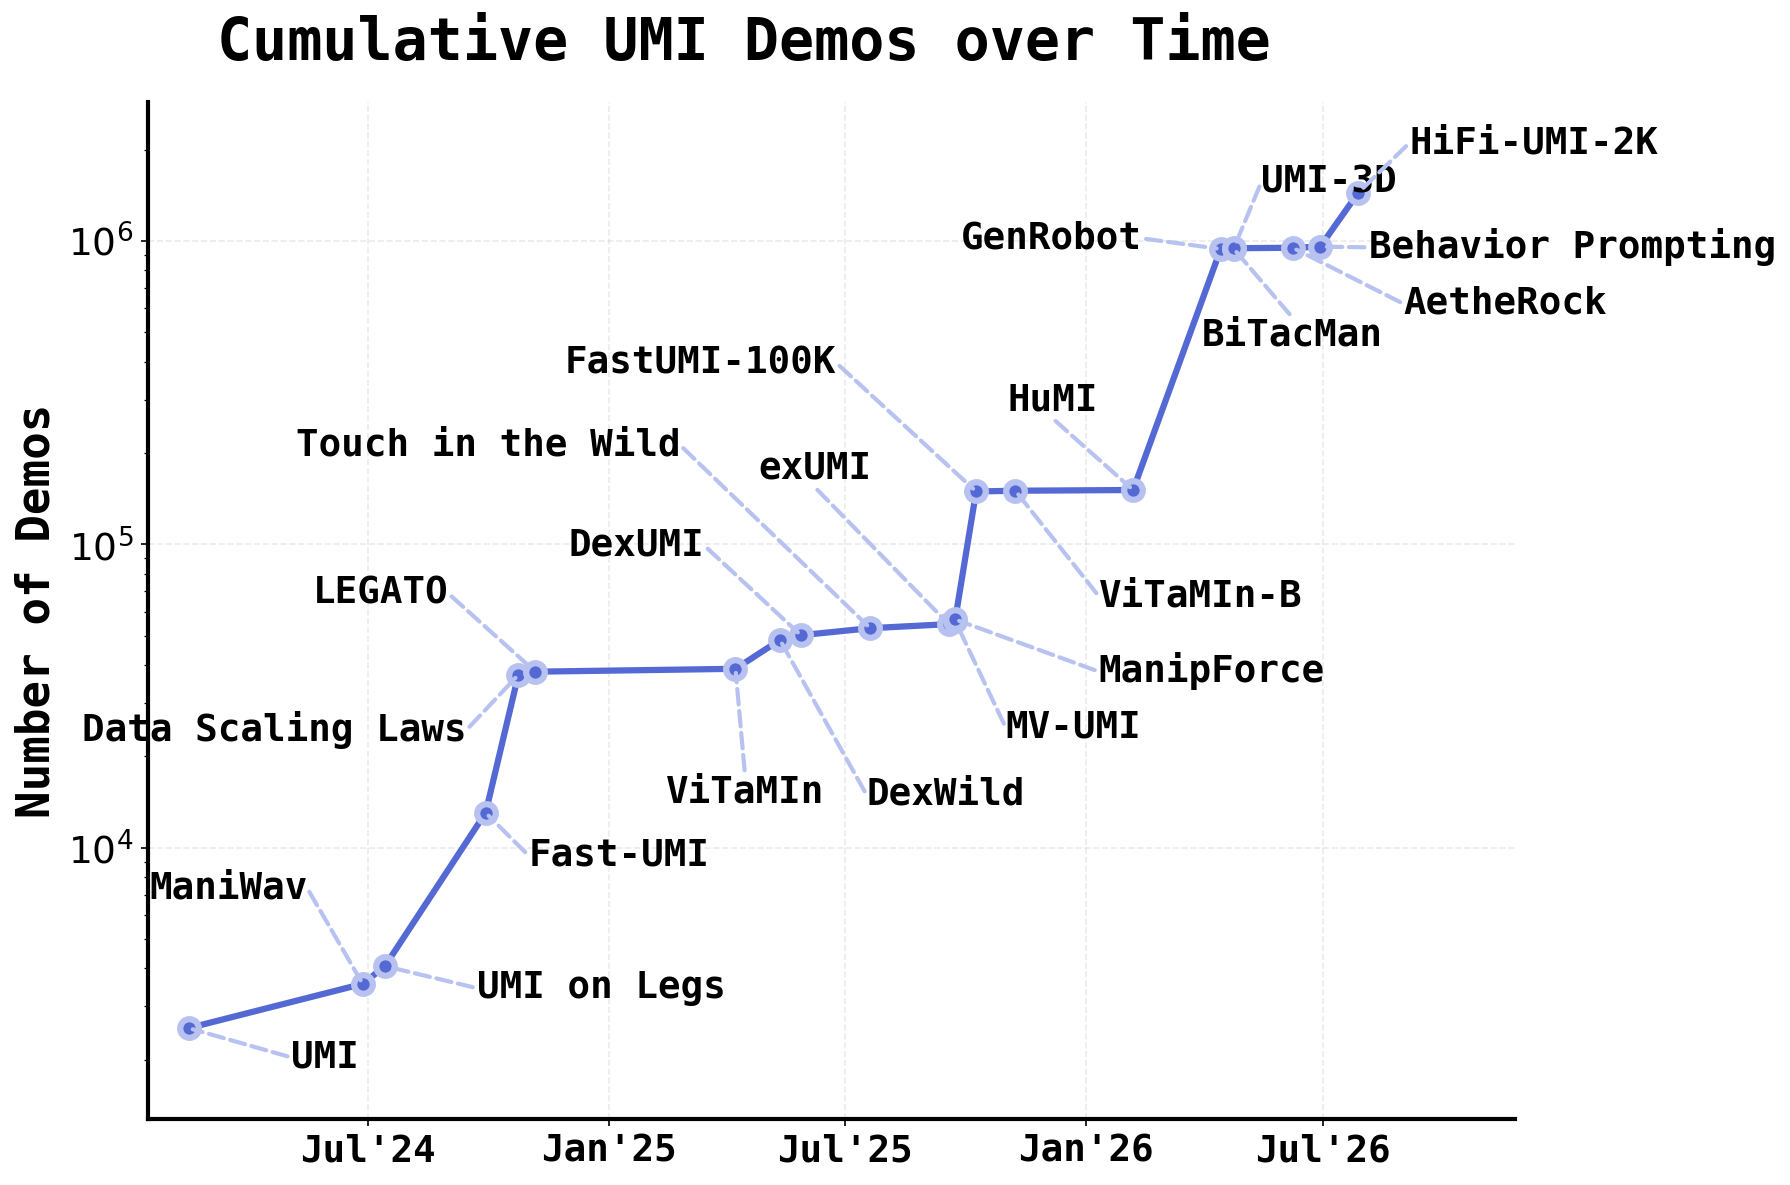
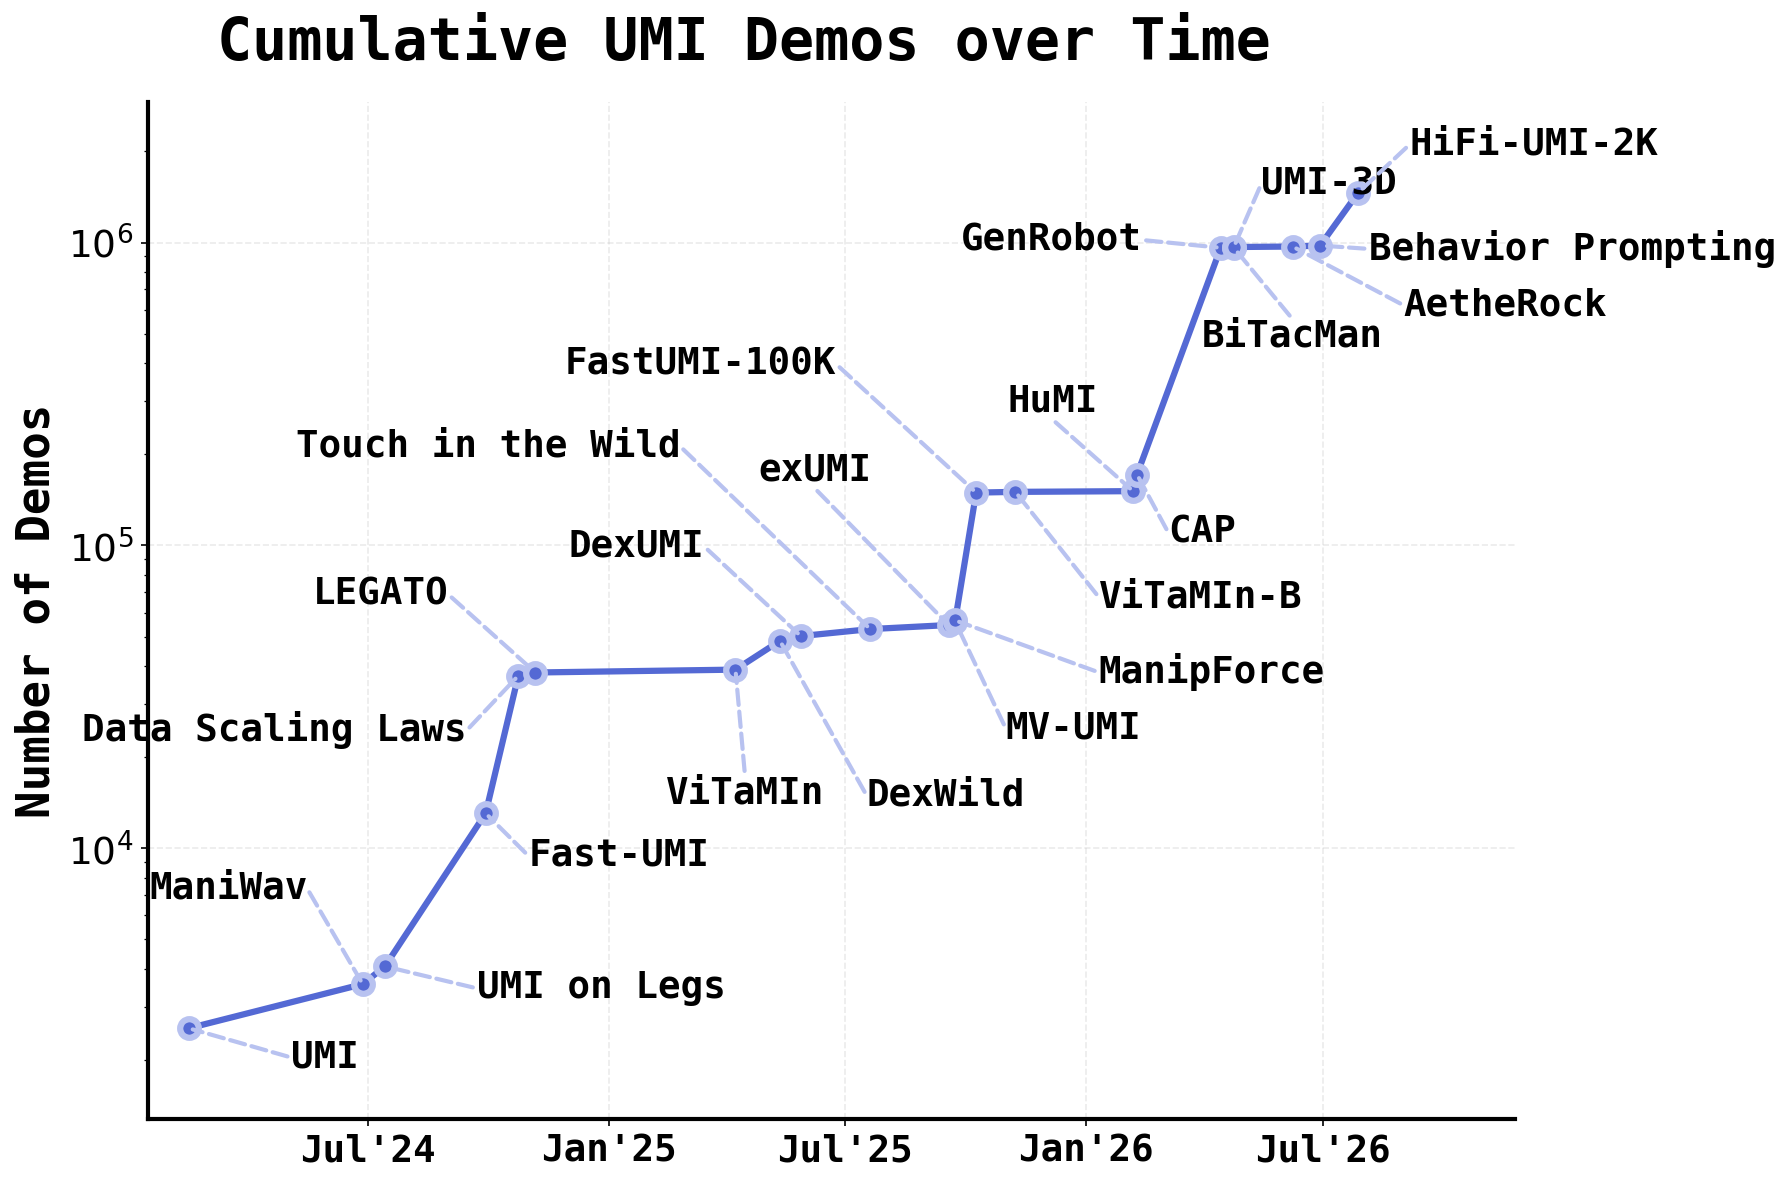
Add Contact-Anchored Policies (CAP) dataset

diff --git a/index.html b/index.html
@@ -352,6 +352,54 @@
                 "n_envs": 1,
                 "license": "CC BY 4.0",
             },
+            // Contact-Anchored Policies (CAP)
+            {
+                "Project": "Contact-Anchored Policies: Contact Conditioning Creates Strong Robot Utility Models",
+                "Project Link": "https://cap-policy.github.io/",
+                "release_date": "2026-02-09",
+                "contact": ["jeff.cui@nyu.edu"],
+                "license": "MIT",
+                "citation": `@article{cui2026contact,
+  title={Contact-Anchored Policies: Contact Conditioning Creates Strong Robot Utility Models},
+  author={Zichen Jeff Cui and Omar Rayyan and Haritheja Etukuru and Bowen Tan and Zavier Andrianarivo and Zicheng Teng and Yihang Zhou and Krish Mehta and Nicholas Wojno and Kevin Yuanbo Wu and Manan H Anjaria and Ziyuan Wu and Manrong Mao and Guangxun Zhang and Binit Shah and Yejin Kim and Soumith Chintala and Lerrel Pinto and Nur Muhammad Mahi Shafiullah},
+  journal={arXiv preprint arXiv:2602.09017},
+  year={2026}
+}`,
+                "task": "Pick",
+                "data_links": {
+                    "Raw Data": "https://huggingface.co/datasets/zavierand/CAPs/tree/main/dataset_raw/Pick"
+                },
+                "obs": ["Image", "Proprio"],
+                "actions": ["6 DoF End Effector", "Parallel Gripper"],
+                "n_demos": 14606,
+                "n_envs": 289,
+                "notes": "20,365 demos (23.1 h) across 424 environments, collected with a handheld 3D-printed gripper and a rigidly mounted iPhone (AnySense app: RGB and 6 DoF ARKit pose at 30 Hz). Each demo is an MP4 plus a labels.json with per-frame pose, gripper aperture and the 2D/3D contact anchor the policy is conditioned on. The Open and Close folders on Hugging Face also contain horizontally mirrored copies of every demo. Code: <a href=\"https://github.com/jeffacce/cap-policy\">GitHub</a>."
+            },
+            {
+                "Project Link": "https://cap-policy.github.io/",
+                "task": "Open",
+                "data_links": {
+                    "Raw Data": "https://huggingface.co/datasets/zavierand/CAPs/tree/main/dataset_raw/Open"
+                },
+                "obs": ["Image", "Proprio"],
+                "actions": ["6 DoF End Effector", "Parallel Gripper"],
+                "n_demos": 3690,
+                "n_envs": 87,
+                "license": "MIT",
+                "notes": "Drawers and cabinet doors."
+            },
+            {
+                "Project Link": "https://cap-policy.github.io/",
+                "task": "Close",
+                "data_links": {
+                    "Raw Data": "https://huggingface.co/datasets/zavierand/CAPs/tree/main/dataset_raw/Close"
+                },
+                "obs": ["Image", "Proprio"],
+                "actions": ["6 DoF End Effector", "Parallel Gripper"],
+                "n_demos": 2069,
+                "n_envs": 48,
+                "license": "MIT",
+            },
             // HuMI
             {
                 "Project": "HuMI",

diff --git a/plots/interactive_annotate.py b/plots/interactive_annotate.py
@@ -58,6 +58,7 @@ projects = [
                                         +4244+1265+2974+1740+2161+2161+2227),
     ("ViTaMIn-B",          "2025-11-08", 123+345+195+181),
     ("HuMI",               "2026-02-06", 103+105+105+104+410),
+    ("CAP",                "2026-02-09", 14606+3690+2069),
     ("BiTacMan",           "2026-04-24", 271+159+148+146),
     ("UMI-3D",             "2026-04-24", 3500+769+340),
     ("GenRobot",           "2026-04-14", 789772),

diff --git a/plots/plot_stats.py b/plots/plot_stats.py
@@ -32,6 +32,7 @@ projects = [
                                         +4244+1265+2974+1740+2161+2161+2227),
     ("ViTaMIn-B",          "2025-11-08", 123+345+195+181),
     ("HuMI",               "2026-02-06", 103+105+105+104+410),
+    ("CAP",                "2026-02-09", 14606+3690+2069),
     ("BiTacMan",           "2026-04-24", 271+159+148+146),
     ("UMI-3D",             "2026-04-24", 3500+769+340),
     ("GenRobot",           "2026-04-14", 789772),
